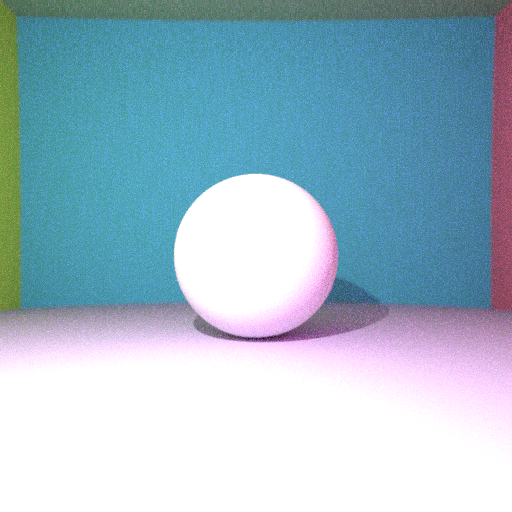
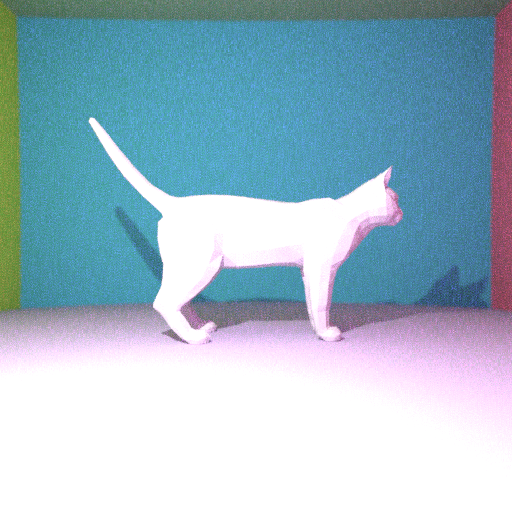
Fix bugs in lab 3

Changed region(s): [[0.0, 0.0, 1.0, 0.7188]]

diff --git a/main.cpp b/main.cpp
@@ -164,13 +164,28 @@ public:
 // Class only used in labs 3 and 4 
 class TriangleMesh : public Object {
 public:
-	TriangleMesh(const Vector& albedo, bool mirror = false, bool transparent = false) : ::Object(albedo, mirror, transparent) {};
+	TriangleMesh(const Vector& albedo, bool mirror = false, bool transparent = false) :
+		::Object(albedo, mirror, transparent),
+		B_min(std::numeric_limits<double>::max(), std::numeric_limits<double>::max(), std::numeric_limits<double>::max()),
+		B_max(std::numeric_limits<double>::lowest(), std::numeric_limits<double>::lowest(), std::numeric_limits<double>::lowest()) {};
+
+	void compute_bbox() {
+		B_min = Vector(std::numeric_limits<double>::max(), std::numeric_limits<double>::max(), std::numeric_limits<double>::max());
+		B_max = Vector(std::numeric_limits<double>::lowest(), std::numeric_limits<double>::lowest(), std::numeric_limits<double>::lowest());
+		for (auto& vtx : vertices) {
+			for (int i = 0; i < 3; ++i) {
+				if (vtx[i] < B_min[i]) B_min[i] = vtx[i];
+				if (vtx[i] > B_max[i]) B_max[i] = vtx[i];
+			}
+		}
+	}
 
 	// first scale and then translate the current object
 	void scale_translate(double s, const Vector& t) {
 		for (int i = 0; i < vertices.size(); i++) {
 			vertices[i] = vertices[i] * s + t;
 		}
+		compute_bbox();
 	}
 
 	// read an .obj file
@@ -294,31 +309,23 @@ public:
 	// TODO ray-mesh intersection (labs 3 and 4)
 	bool intersect(const Ray& ray, Vector& P, double& t, Vector& N) const {
 		// lab 3 : once done, speed it up by first checking against the mesh bounding box
-		Vector B_min(std::numeric_limits<double>::max(), std::numeric_limits<double>::max(), std::numeric_limits<double>::max());
-		Vector B_max(std::numeric_limits<double>::min(), std::numeric_limits<double>::min(), std::numeric_limits<double>::min());
-		for (auto& vtx : vertices) {
-			for (int i = 0; i < 3; ++i) {
-				if (vtx[i] < B_min[i]) B_min[i] = vtx[i];
-				if (vtx[i] > B_max[i]) B_max[i] = vtx[i];
-			}
-		}
+		double t_min = 0.0;
+		double t_max = std::numeric_limits<double>::max();
 
-		bool intersect = true;
 		for (int i = 0; i < 3; ++i) {
-			double t0 = B_min[i] - ray.O[i] / ray.u[i];
-			double t1 = B_max[i] - ray.O[i] / ray.u[i];
+			double t0 = (B_min[i] - ray.O[i]) / ray.u[i];
+			double t1 = (B_max[i] - ray.O[i]) / ray.u[i];
 			if (t1 < t0) {
 				const double tmp = t0;
 				t0 = t1;
 				t1 = tmp;
 			}
 
-			if (std::max(B_min[i], t0) > std::min(B_max[i], t1)) {
-				intersect = false;
-				break;
-			}
+			t_min = std::max(t_min, t0);
+			t_max = std::min(t_max, t1);
 		}
-		if (!intersect) return false;
+
+		if (t_max < t_min) return false;
 		
 		// lab 3 : for each triangle, compute the ray-triangle intersection with Moller-Trumbore algorithm
 		double min_t = std::numeric_limits<double>::max();
@@ -330,20 +337,22 @@ public:
 
 			Vector e1 = B - A;
 			Vector e2 = C - A;
-			N = cross(e1, e2);
+			Vector local_N = cross(e1, e2);
 
 			const Vector A_O_u = cross((A - ray.O), ray.u);
-			const double u_N = dot(ray.u, N);
+			const double u_N = dot(ray.u, local_N);
 			const double beta = dot(e2, A_O_u) / u_N;
 			const double gamma = -1 * dot(e1, A_O_u) / u_N;
 			const double alpha = 1 - beta - gamma;
-			const double local_t = dot(A - ray.O, N) / u_N;
+			const double local_t = dot(A - ray.O, local_N) / u_N;
 			if (beta < 0 || gamma < 0 || alpha < 0 || local_t < 0) continue;
 
 			if (local_t < min_t) {
 				min_t = local_t;
 				t = local_t;
 				P = alpha * A + beta * B + gamma * C;
+				N = local_N;
+				N.normalize();
 			}
 		}
 
@@ -359,6 +368,8 @@ public:
 	std::vector<Vector> normals;
 	std::vector<Vector> uvs;
 	std::vector<Vector> vertexcolors;
+	Vector B_min;
+	Vector B_max;
 };
 
 
@@ -480,7 +491,7 @@ int main() {
 	Sphere floor(Vector(0, -1000, 0), 990, Vector(0.6, 0.5, 0.7));
 
 	TriangleMesh cat(Vector(0.6, 0.6, 0.6));
-	cat.readOBJ("./cat.obj");
+	cat.readOBJ("../cat.obj");
 	cat.scale_translate(0.6, Vector(0, -10, 0));
 
 	Scene scene;
@@ -491,7 +502,7 @@ int main() {
 	scene.gamma = 2.2;    // TODO (lab 1) : play with gamma ; typically, gamma = 2.2
 	scene.max_light_bounce = 5;
 
-	scene.addObject(&center_sphere);
+	// scene.addObject(&center_sphere);
 
 	scene.addObject(&wall_left);
 	scene.addObject(&wall_right);
@@ -500,7 +511,7 @@ int main() {
 	scene.addObject(&ceiling);
 	scene.addObject(&floor);
 
-	// scene.addObject(&cat);
+	scene.addObject(&cat);
 
 	std::vector<unsigned char> image(W * H * 3, 0);
 
